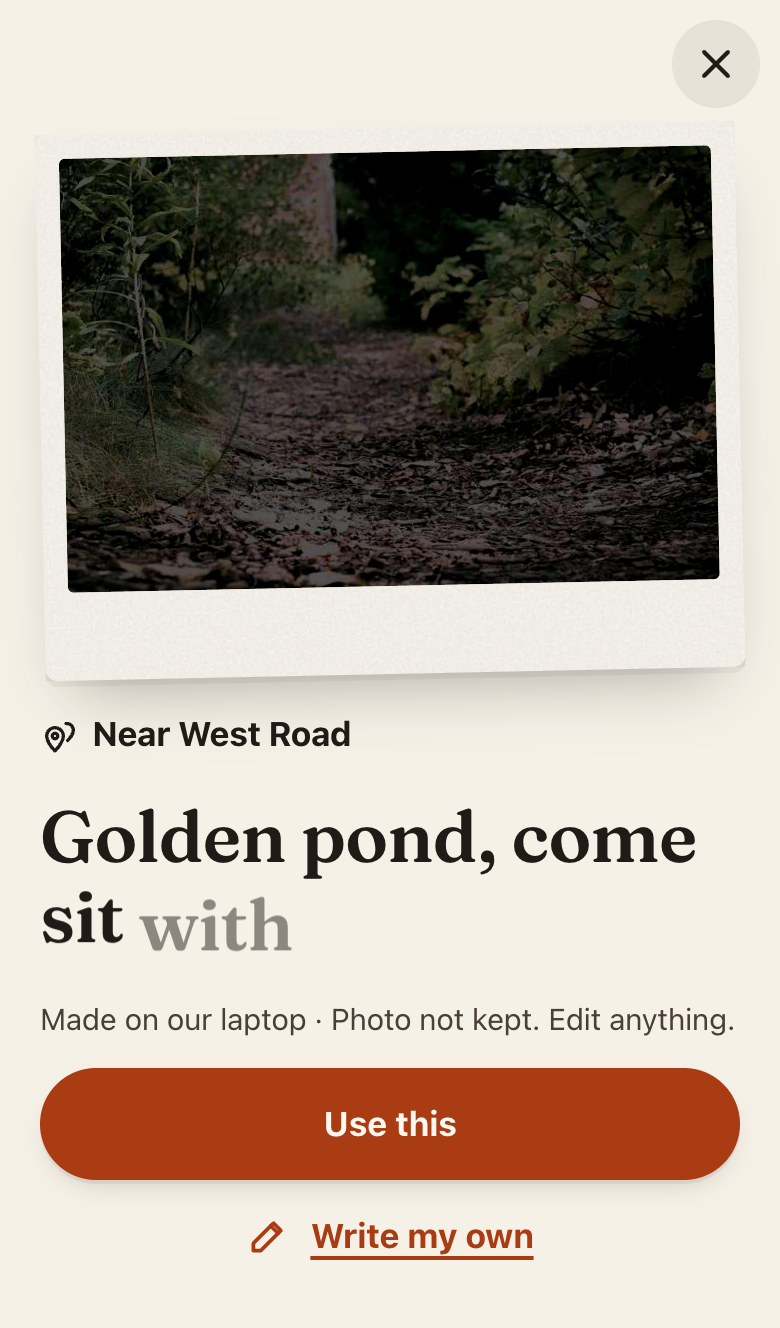
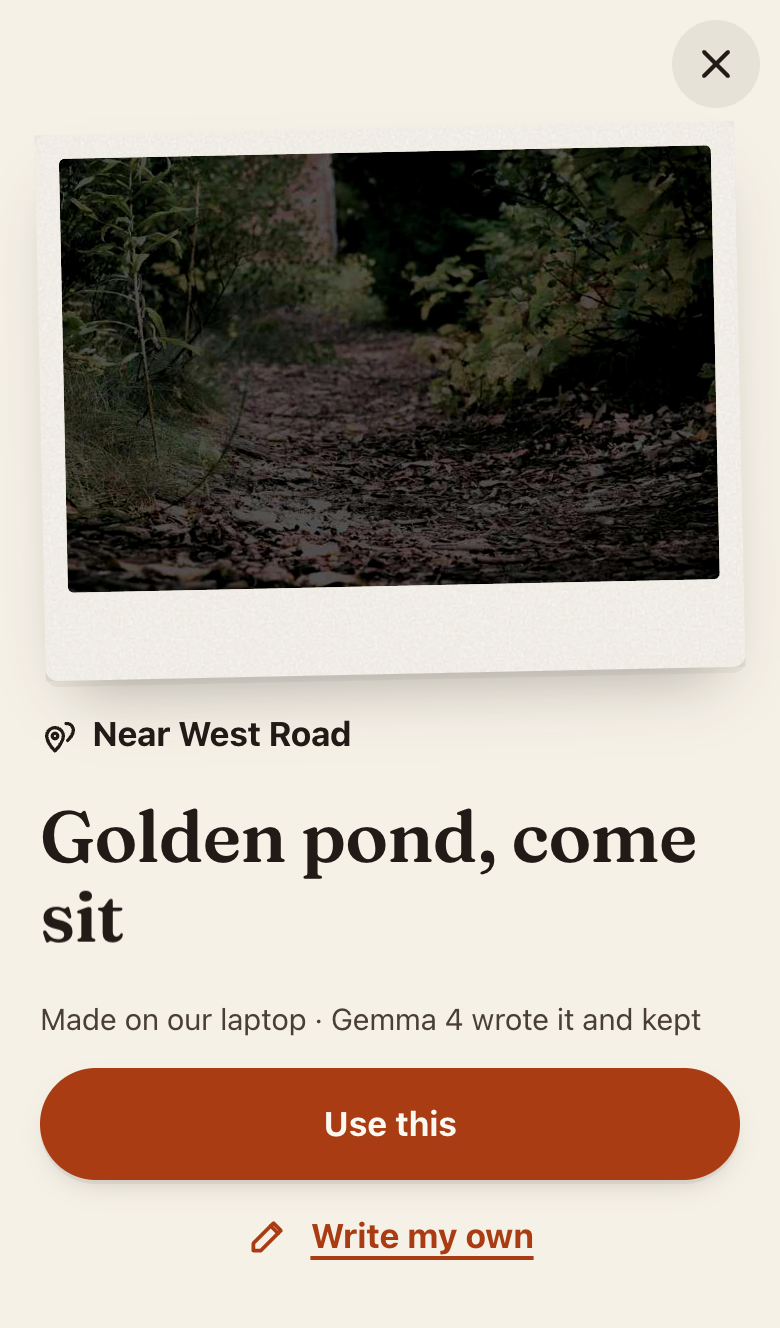
Round 6 leftovers: every control visible at 375x667 (new gate), coach line in the sheet, one location ask, Need N more, tour link in the footer, honest tier hint
Entire-Checkpoint: 01M4Q1F3B2832VZHCN2HQK2D8J

diff --git a/apps/web/src/lib/screens/H3Send.svelte b/apps/web/src/lib/screens/H3Send.svelte
@@ -29,6 +29,8 @@
     sample = false,
     onsend,
     onclose,
+      coach = "",
+      onlocate,
   }: {
     view?: "ready" | "editing" | "sending" | "error" | "offline";
     theme?: Theme;
@@ -48,6 +50,10 @@
     sample?: boolean;
     onsend?: () => void;
     onclose?: () => void;
+      /** The demo's coach line, in the sheet so it never covers the photo (fresh-eyes round 6). */
+    coach?: string;
+      /** Fresh-eyes round 6: the one place we ask for location, next to the place it fills. */
+    onlocate?: () => void;
   } = $props();
   let editing = $state(false);
   const showEdit = $derived(editing || view === "editing");
@@ -61,14 +67,18 @@
     {#if photo}<button class="pf" type="button" onclick={zoom}><img src={photo} alt={scene || t("invite.photoFallback")} onload={lit} /></button>{/if}
     <p class="t-invite words">{words}</p>
   {/snippet}
-  <Tip id="send" text="tip.send" />
+  <!-- First send on a short phone: the name field takes the tip's room; the tip shows next time. -->
+  {#if coach}<p class="coachline" role="status">{coach}</p>{/if}
+  <div class="tipwrap" class:first={askName}><Tip id="send" text="tip.send" /></div>
+  <!-- The size first (fresh-eyes round 6): on a small phone it must never sit below the fold. -->
+  <Choice label={t("send.quorumLabel")} bind:value={quorum} options={[{ value: "2", label: "2" }, { value: "3", label: "3" }, { value: "4", label: "4" }]} />
   {#if askName}
     <TextField label={t("join.nameLabel")} bind:value={hostName} placeholder={t("join.namePlaceholder")} hint={t("join.nameHint")} max={24} />
   {/if}
   {#if askSpot}
     <TextField label={t("perm.locationHost.label")} bind:value={typedSpot} placeholder={t("perm.locationHost.placeholder")} hint={typedSpot.trim() ? "" : t("send.whereHint")} max={80} />
+    {#if onlocate}<Button variant="text" icon="hotspots" onclick={onlocate}>{t("send.useLocation")}</Button>{/if}
   {/if}
-  <Choice label={t("send.quorumLabel")} bind:value={quorum} options={[{ value: "2", label: "2" }, { value: "3", label: "3" }, { value: "4", label: "4" }]} />
   <!-- One place field (fresh-eyes round 2): when you type where you are, that is the line;
        the Where you'll be row only shows when the map already named the spot. -->
   {#if askSpot && !showEdit}{:else if showEdit}
@@ -93,12 +103,21 @@
 </Screen>
 
 <style>
+  .tipwrap { display: contents; }
+  .coachline { margin: 0; padding: 8px 14px; border-radius: 14px; background: #fff; color: #111; font-weight: 700; }
   .words { margin: 0; font-size: calc(2.5rem * var(--text-scale)); line-height: 1.08; max-width: 14ch; }
   /* Photo-fit: the photo at its own shape, capped so the main button still fits on a 375 x 667
      phone. The words sit under it and the sheet takes the rest, so nothing covers the place. */
   .pf { display: block; margin: 0 auto; padding: 0; border: 0; background: none; border-radius: 16px; overflow: hidden; max-width: 100%; cursor: zoom-in; flex: none; }
-  .pf img { display: block; max-width: 100%; max-height: min(38dvh, 420px); width: auto; height: auto; }
-  .pf + .words { font-size: calc(2rem * var(--text-scale)); max-width: none; }
+  /* Send holds more controls than the invite (size, place, Edit): a smaller print, so every
+     control fits at 375 x 667 without scrolling (fresh-eyes round 6). Tap the photo to see it whole. */
+  .pf img { display: block; max-width: 100%; max-height: min(24dvh, 300px); width: auto; height: auto; }
+  .pf + .words { font-size: calc(1.5rem * var(--text-scale)); max-width: none; }
+  @media (max-height: 720px) {
+    .pf img { max-height: 15dvh; }
+    .tipwrap.first { display: none; }
+    .pf + .words { font-size: calc(1.25rem * var(--text-scale)); }
+  }
   :global(.staged > .hero:has(.pf)) { flex: none; justify-content: flex-start; gap: 10px; padding-top: 4px; }
   :global(.staged:has(> .hero .pf) > .sheet) { flex: 1; max-height: none; min-height: 0; }
   .hostline { display: flex; align-items: center; justify-content: space-between; gap: 8px; padding: 4px 0; }

diff --git a/apps/web/test/e2e/photo-fit.ts b/apps/web/test/e2e/photo-fit.ts
@@ -139,6 +139,34 @@ const onScreen = (page: Page, name: string | RegExp) =>
       return r.bottom <= innerHeight && r.top >= 0;
     });
 
+/** Round 6: every control in the sheet is on screen, not clipped by its scroll box, not covered. */
+const controlsHidden = (page: Page) =>
+  page.evaluate(() => {
+    const out: string[] = [];
+    const els = [
+      ...document.querySelectorAll(".sheet button, .sheet input, .sheet textarea, .sheet label.opt, .sheet a"),
+    ];
+    for (const el of els) {
+      const r = el.getBoundingClientRect();
+      if (!r.width || !r.height || getComputedStyle(el).visibility === "hidden") continue;
+      if (el.matches("label.opt input")) continue; // the label is the tap target; its radio is hidden
+      let clip = { top: 0, bottom: innerHeight };
+      for (let p = el.parentElement; p; p = p.parentElement) {
+        const o = getComputedStyle(p).overflowY;
+        if (o === "auto" || o === "scroll" || o === "hidden") {
+          const pr = p.getBoundingClientRect();
+          clip = { top: Math.max(clip.top, pr.top), bottom: Math.min(clip.bottom, pr.bottom) };
+        }
+      }
+      const cy = r.top + r.height / 2;
+      const hit = document.elementFromPoint(r.left + r.width / 2, cy);
+      const covered = !hit || !(el === hit || el.contains(hit) || hit.contains(el));
+      if (r.top < clip.top - 1 || r.bottom > clip.bottom + 1 || covered)
+        out.push((el.textContent?.trim() || el.getAttribute("aria-label") || el.tagName).slice(0, 30));
+    }
+    return out;
+  });
+
 async function measure(
   page: Page,
   screen: string,
@@ -157,6 +185,10 @@ async function measure(
   check(`${tag}: text and sheets cover at most 25% of the photo`, m.cover <= MAX_COVER, `${pct}%`);
   check(`${tag}: the whole photo is on screen (no crop)`, m.shown >= 0.97, `${shownPct}%`);
   check(`${tag}: the main button fits without scrolling`, await onScreen(page, main));
+  if (!BEFORE) {
+    const hidden = await controlsHidden(page);
+    check(`${tag}: every control is on screen and uncovered at first paint`, hidden.length === 0, hidden.join(", "));
+  }
   if (!BEFORE) {
     if (photo.dark) check(`${tag}: the dark photo is brightened for display`, /brightness/.test(m.filter), m.filter);
     else check(`${tag}: a bright photo has no filter`, !m.filter || m.filter === "none", m.filter);
@@ -286,6 +318,25 @@ try {
       }
       if (!BEFORE && vp.height === 664) await viewer(friend, `invite ${tag}`);
       await friendCtx.close();
+    }
+  // Round 6: the demo's Send step, with its coach line, on the same viewports and the same rules.
+  if (!BEFORE)
+    for (const vp of VIEWPORTS) {
+      const ctx = await browser.newContext({ viewport: vp, deviceScaleFactor: 2, hasTouch: true, isMobile: true });
+      const demo = await ctx.newPage();
+      await demo.goto(`${srv.url}/app/demo/`);
+      await photoReady(demo);
+      const m = await coverage(demo);
+      const tag = `demo send ${vp.width}x${vp.height}`;
+      rows.push(`${tag}: ${Math.round(m.cover * 1000) / 10}% covered`);
+      check(
+        `${tag}: the coach line and sheet cover at most 25% of the photo`,
+        m.cover <= MAX_COVER,
+        `${Math.round(m.cover * 1000) / 10}%`,
+      );
+      const hidden = await controlsHidden(demo);
+      check(`${tag}: every control is on screen and uncovered at first paint`, hidden.length === 0, hidden.join(", "));
+      await ctx.close();
     }
 } finally {
   await browser.close();

diff --git a/apps/web/src/lib/screens/HostPage.svelte b/apps/web/src/lib/screens/HostPage.svelte
@@ -247,9 +247,9 @@
 {:else if flow.screen === "camera"}
   <H1Camera view={camera} {stream} onshoot={shoot} onpick={pick} onallow={openCamera} onmenu={() => (menu = true)} onvoice={(d) => { stopCamera(); flow.useVoice(d); }} />
 {:else if flow.screen === "develop"}
-  <H2Develop view={flow.draft} photo={flow.photo} scene={flow.alt} spot={flow.spot?.name ?? ""} words={flow.words} tier={flow.tier} cloud={flow.cloudOptIn} onaskcloud={() => flow.askCloud()} chips={flow.chips} bind:own askLocation={flow.askLocation} bind:typedSpot onuse={(w) => flow.useWords(w)} onwrite={() => (flow.draft = "hub-unreachable")} onallowlocation={locate} onskiplocation={() => flow.typeSpot(typedSpot)} />
+  <H2Develop view={flow.draft} photo={flow.photo} scene={flow.alt} spot={flow.spot?.name ?? ""} words={flow.words} tier={flow.tier} cloud={flow.cloudOptIn} onaskcloud={() => flow.askCloud()} chips={flow.chips} bind:own askLocation={false} bind:typedSpot onuse={(w) => flow.useWords(w)} onwrite={() => (flow.draft = "hub-unreachable")} onallowlocation={locate} onskiplocation={() => flow.typeSpot(typedSpot)} />
 {:else if flow.screen === "send"}
-  <H3Send view={flow.sending ? "sending" : flow.error ? "error" : "ready"} photo={flow.photo} scene={flow.alt} words={flow.words} spot={flow.spot?.name ?? ""} bind:quorum={flow.quorum} bind:hostLine={flow.hostLine} bind:hostName={flow.hostName} askName={flow.askName} askSpot={!flow.spot?.name} bind:typedSpot access={flow.access} nature={flow.nature} error={flow.error} onsend={send} onclose={exit} />
+  <H3Send view={flow.sending ? "sending" : flow.error ? "error" : "ready"} photo={flow.photo} scene={flow.alt} words={flow.words} spot={flow.spot?.name ?? ""} bind:quorum={flow.quorum} bind:hostLine={flow.hostLine} bind:hostName={flow.hostName} askName={flow.askName} askSpot={!flow.spot?.name} bind:typedSpot onlocate={flow.spot ? undefined : locate} access={flow.access} nature={flow.nature} error={flow.error} onsend={send} onclose={exit} />
 {:else if flow.screen === "sent"}
   <H4Sent buzz={buzzMode({ push: pushOn, telegram: flow.postedToTelegram })} installed={installed()} kind={flow.view?.kind ?? kind} deadline={flow.deadlineAt ? clock(flow.deadlineAt, flow.tz) : ""} copied={flow.copied} linkOnly={flow.linkOnly} shareFirst={!flow.postedToTelegram} ondone={() => flow.pocket()} onshare={() => flow.share()} oncopy={() => flow.copyText()} />
 {:else if flow.screen === "kindling"}

diff --git a/apps/web/src/routes/app/demo/+page.svelte b/apps/web/src/routes/app/demo/+page.svelte
@@ -182,8 +182,7 @@
   </aside>
 
   {#if step === "send"}
-    <aside class="notes" aria-label={t("demo.intro", { host: me })}><p class="role" role="status">{t("demo.intro", { host: me })}</p></aside>
-    <H3Send bind:hostLine={typedLine} words={DEMO_WORDS} photo="/demo/pond.jpg" scene={DEMO_SCENE} spot={DEMO_SPOT} bind:quorum onsend={send} onclose={leave} />
+    <H3Send coach={t("demo.intro", { host: me })} bind:hostLine={typedLine} words={DEMO_WORDS} photo="/demo/pond.jpg" scene={DEMO_SCENE} spot={DEMO_SPOT} bind:quorum onsend={send} onclose={leave} />
   {:else if step === "kindling"}
     <div class="layer">
       <H5HostKindling photo="/demo/pond.jpg" scene={DEMO_SCENE} view={demo.have() > 1 ? "growing" : "zero"} have={demo.have()} quorum={demo.g?.quorum ?? 4} sentMin={sentAt ? Math.floor((demo.now - sentAt) / 60_000) : 0} hostLine={typedLine || t("demo.youWait", { spot: DEMO_SPOT })} onclose={leave} />

diff --git a/apps/web/src/lib/screens/H2Develop.svelte b/apps/web/src/lib/screens/H2Develop.svelte
@@ -65,7 +65,7 @@
     <p class="t-invite pending" role="status">{t("develop.writing")}</p>
   {:else if view === "drafted"}
     <TypeWords text={words} />
-    <p class="tier t-small t-muted">{dot(t(tier === "hub" ? "app.tier.hub" : tier === "cloud" ? "app.tier.cloud" : "app.tier.rules"), t("develop.editHint"))}</p>
+    <p class="tier t-small t-muted">{dot(t(tier === "hub" ? "app.tier.hub" : tier === "cloud" ? "app.tier.cloud" : "app.tier.rules"), t(tier === "hub" ? "develop.editHintHub" : "develop.editHint"))}</p>
     <FlameMeter have={1} quorum={2} note={t("develop.flameNote")} />
   {:else}
     <p class="t-muted t-small notice"><Icon name="info" size={20} />{view === "offline" ? t("develop.noSignal") : cloud ? t("develop.hubDownCloud") : t("develop.hubDown")}</p>

diff --git a/apps/web/src/routes/(site)/+page.svelte b/apps/web/src/routes/(site)/+page.svelte
@@ -38,7 +38,7 @@
       <a class="cta" href="/app/">{t("site.nav.open")}</a>
     </div>
     <SunLine />
-    <p class="fine">{t("site.hero.fine")} <a class="judge" href="/app/demo/">{t("site.hero.judge")}</a></p>
+    <p class="fine">{t("site.hero.fine")}</p>
   </div>
 </section>
 
@@ -114,5 +114,4 @@
   .live-fallback { border-radius: var(--r-lg); padding: 18px 20px; background: var(--c-dusk-900); color: var(--c-birch-100); display: flex; flex-direction: column; gap: 10px; }
   .live-fallback h2 { margin: 0; color: var(--c-gold-300); }
   .live-fallback a { color: var(--c-gold-300) !important; }
-  .judge { color: var(--c-birch-50) !important; font-weight: 700; text-underline-offset: 3px; white-space: nowrap; }
 </style>

diff --git a/apps/web/src/lib/components/CountRing.svelte b/apps/web/src/lib/components/CountRing.svelte
@@ -1,5 +1,5 @@
 <!-- The count, made visual (2026 direction): a ring of segments around the flame, one per
-     person needed, filled per yes; one short line ("1 more to light it"); "Nobody sees who" as
+     person needed, filled per yes; one short line ("Need 1 more"); "Nobody sees who" as
      a tiny hint. The flame grows with each yes like the app's Kindling.
      A yes arrives as a spark: it flies in from the screen's edge (a random side, never a name or
      a face), feeds the flame, then the flame grows a step and the count ticks (about 900 ms).

diff --git a/apps/web/src/routes/(site)/+layout.svelte b/apps/web/src/routes/(site)/+layout.svelte
@@ -69,6 +69,7 @@
       <img src="/brand/flare-mark-maple.svg" alt="" width="36" height="36" />
       <p>{t("site.foot.made")} {t("site.foot.osm")}</p>
     </div>
+    <p class="tour"><a href="/app/demo/">{t("site.hero.judge")}</a></p>
     <p class="build">{t("site.foot.build", { id: version.slice(0, 12) })}</p>
   </footer>
 </div>

diff --git a/docs/content/03-checks.md b/docs/content/03-checks.md
@@ -4,7 +4,7 @@ Generated by `design/prototype/scripts/copy-lint.mjs`. Run it from `design/proto
 
 ## Result
 
-- Strings checked: **1135** keys (11 with a singular form), in 23 kinds: title 165, aria 50, status 105, label 134, button 142, hint 82, message 128, heading 1, prose 167, separator 2, error 35, placeholder 7, share 7, option 17, fragment 34, spoken 4, export 1, push 12, bot 18, log 1, sms 4, og-title 9, og-desc 10.
+- Strings checked: **1137** keys (11 with a singular form), in 23 kinds: title 165, aria 50, status 105, label 134, button 143, hint 83, message 128, heading 1, prose 167, separator 2, error 35, placeholder 7, share 7, option 17, fragment 34, spoken 4, export 1, push 12, bot 18, log 1, sms 4, og-title 9, og-desc 10.
 - Problems: **0**.
 - Longest button: 3 words (limit 3). Longest UI string: 12 words (limit 12). Longest prose sentence: 23 words (limit 25).
 - Fixed requirement strings present word for word: 41 of 41.
@@ -32,7 +32,7 @@ Every string, raw template and filled sample, against each rule:
 
 ## Readability (Flesch-Kincaid grade)
 
-Formula: 0.39 × (words ÷ sentences) + 11.8 × (syllables ÷ words) − 15.59, in `scripts/readability.mjs`. Strings of 4 words or more are graded (701); the other 422 are buttons and labels of 1 to 3 words, where one long word decides the score and the grade means nothing. Scores below 0 count as 0 in the averages. Target: about grade 6.
+Formula: 0.39 × (words ÷ sentences) + 11.8 × (syllables ÷ words) − 15.59, in `scripts/readability.mjs`. Strings of 4 words or more are graded (701); the other 424 are buttons and labels of 1 to 3 words, where one long word decides the score and the grade means nothing. Scores below 0 count as 0 in the averages. Target: about grade 6.
 
 | Group | Strings | Average grade | Over 8 |
 | --- | --- | --- | --- |
@@ -153,7 +153,7 @@ Note for engineering: the "…" that BR-CH-2 asks for is not in the GSM-7 alphab
 These strings are final but live in channels or components outside this role's files. Each group says who wires it.
 
 - **Component (wire after merge): Screen.svelte** (2): `app.close`, `app.menu`
-- **Engineering or design to place** (563): `app.sending`, `app.loading`, `app.waking`, `home.golden`, `home.goldenH`, `home.goldenNow`, `home.goldenLeft`, `home.after`, `home.outside`, `home.dry`, `home.rain`, `home.green`, `home.light`, `home.live`, `home.again`, `home.plan`, `home.near`, `home.nearNote`, `demo.badge`, `demo.try`, `demo.skip`, `demo.asFriend`, `demo.said`, `demo.youWait`, `demo.you`, `demo.friendCoach`, `demo.friendBanner`, `demo.backToYou`, `demo.intro`, `demo.inIf`, `demo.back`, `demo.youHost`, `demo.youFriend`, `demo.coachLit`, `demo.coachFind`, `demo.next`, `demo.leave`, `demo.shrinkHint`, `demo.done`, `demo.again`, `demo.real`, `onb.1.title`, `onb.1.body`, `onb.2.title`, `onb.2.body`, `onb.3.title`, `onb.3.body`, `onb.next`, `onb.skip`, `onb.name`, `onb.nameHint`, `onb.go`, `onb.how`, `onb.link`, `onb.pasteLabel`, `onb.open`, `onb.badLink`, `onb.linkHelp`, `onb.cardAria`, `tip.home`, `tip.invite`, `tip.compass`, `tip.send`, `crew.title`, `crew.outNow`, `crew.week`, `crew.weekMin`, `crew.weekNone`, `crew.stats`, `crew.places`, `crew.placesEmpty`, `crew.manage`, `crew.light`, `crew.empty`, `crew.rename`, `crew.quorum`, `crew.saved`, `crew.never`, `crew.fresh`, `crew.freshTitle`, `crew.freshBody`, `crew.freshYes`, `crew.freshNo`, `crew.freshDone`, `menu.crew`, `menu.crewSub`, `app.tier.phone`, `app.tier.rules`, `app.dot`, `err.server`, `err.rateLimit`, `err.over`, `err.sealPhoto`, `err.storageFull`, `err.oldBrowser`, `err.inAppBrowser`, `perm.locationHost.title`, `perm.locationHost.body`, `perm.locationHost.allow`, `perm.locationHost.alt`, `perm.locationHost.denied`, `perm.locationHost.label`, `perm.locationHost.placeholder`, `perm.locationFriend.title`, `perm.locationFriend.body`, `perm.locationFriend.allow`, `perm.locationFriend.alt`, `perm.locationFriend.denied`, `perm.motion.title`, `perm.motion.body`, `perm.motion.allow`, `perm.motion.alt`, `perm.motion.denied`, `perm.notify.title`, `perm.notify.body`, `perm.notify.allow`, `perm.notify.alt`, `perm.notify.homeScreen`, `perm.notify.homeScreenHow`, `perm.notify.denied`, `perm.mic.title`, `perm.mic.body`, `perm.mic.body2`, `perm.mic.allow`, `perm.mic.alt`, `perm.mic.denied`, `develop.tooLong`, `send.hostLineEmpty`, `send.edit`, `tip.dismiss`, `send.whereHint`, `send.hostLineSeen`, `spot.nearStreet`, `sent.titleShare`, `sent.bodyOpen`, `sent.bodyTelegram`, `sent.homeTitle`, `sent.homeStep1`, `sent.homeStep2`, `sent.backLit`, `sent.titleLit`, `sent.titleWaiting`, `sent.telegram`, `sent.copyText`, `sent.copied`, `host.kindling.justSent`, `host.cancel.title`, `host.cancel.body`, `host.cancel.yes`, `host.cancel.no`, `host.textYes.open`, `host.textYes.label`, `host.textYes.hint`, `host.textYes.add`, `host.textYes.done`, `host.textYes.max`, `host.textYes.wrong`, `host.live.title`, `host.live.body`, `host.live.yes`, `host.live.no`, `join.full`, `invite.where`, `cond.listening`, `cond.didntCatchNow`, `cond.chipsAria`, `cond.chip.in`, `cond.chip.with`, `cond.chip.after`, `cond.chip.walk`, `cond.tooMany`, `readback.line`, `readback.missed`, `readback.rule.after`, `readback.rule.afterIn`, `readback.rule.maxWalk`, `readback.chip.after`, `readback.chip.maxWalk`, `readback.plain.title`, `readback.plain.yes`, `readback.plain.no`, `in.takenBack`, `notSuit.restroom`, `access.benchHere`, `access.noneNear`, `access.unknown`, `need.toLight`, `need.private`, `lit.together`, `lit.cantSheet.title`, `lit.cantSheet.body`, `lit.cantSheet.yes`, `lit.cantSheet.no`, `lit.cantDone`, `voice.meters`, `voice.km`, `voice.ahead`, `voice.close`, `voice.title`, `voice.sub`, `voice.try`, `atlas.title`, `atlas.note`, `atlas.fact`, `atlas.factOne`, `atlas.aria`, `desk.title`, `desk.body`, `desk.qrAlt`, `remember.chip`, `remember.title`, `remember.hostBody`, `remember.turnOn`, `remember.turnOff`, `remember.askBody`, `remember.agree`, `remember.decline`, `remember.off`, `remember.waiting`, `remember.notLit`, `remember.warn`, `remember.record`, `remember.recording`, `remember.stop`, `remember.working`, `remember.noteTitle`, `remember.noSummary`, `remember.failed`, `remember.saveSpark`, `remember.privacy`, `here.auto`, `here.undo`, `compass.start`, `compass.near`, `compass.apart`, `compass.figure8`, `ember.covered`, `spark.say`, `spark.stop`, `spark.listening`, `spark.working`, `spark.sayNote`, `spark.sayFail`, `voiceFlare.cta`, `voiceFlare.note`, `voiceFlare.working`, `voiceFlare.fail`, `outside.together`, `outside.away`, `outside.awayBody`, `outside.awayCta`, `plan.pickStart`, `plan.pickDeadline`, `plan.err.tooSoon`, `plan.err.tooFar`, `ladder.madeRules`, `ladder.template.step1`, `ladder.template.step2`, `ladder.template.step3`, `ladder.template.step4`, `ladder.sunsetOff`, `ladder.err.order`, `planLit.ember`, `fade.newSpot`, `menu.tg`, `menu.tgSub`, `forget.title`, `forget.body`, `forget.last`, `forget.yes`, `forget.no`, `forget.done`, `more.noGroup`, `forget.failed`, `needs.saved`, `check.copied`, `loop.stopReading`, `loop.noLocation`, `loop.noMap`, `loop.hint`, `loop.finding`, `loop.card.title`, `loop.turn.water`, `map.exportFile`, `map.photoGone`, `map.noteText`, `map.pick`, `map.starter`, `map.changeLabel`, `map.badValue`, `map.save`, `map.noLocation`, `map.copied`, `map.photoAsk`, `map.noPhoto`, `map.drafted`, `map.noDraft`, `host.lit.tell`, `site.nav.skip`, `site.nav.footAria`, `site.nav.open`, `site.hero.shotAlt`, `site.hero.judge`, `site.home.readBuilt`, `site.sun.soon`, `site.sun.later`, `site.sun.down`, `site.sun.hereSoon`, `site.sun.hereLater`, `site.sun.hereDown`, `site.sun.locate`, `site.sun.locNote`, `site.sun.locFail`, `site.story.title`, `site.story.lead`, `site.story.k`, `site.story.l`, `site.story.e`, `site.story.g`, `site.story.scene`, `site.story.count`, `site.story.ember`, `site.story.deleted`, `site.start.title`, `site.start.lead`, `site.start.s1.t`, `site.start.s1.b`, `site.start.s2.t`, `site.start.s2.b`, `site.start.s3.t`, `site.start.s3.b`, `site.start.sampleName`, `site.start.send`, `site.start.phoneAria`, `site.tg.title`, `site.tg.waitingAlt`, `site.tg.litAlt`, `site.tg.flip`, `site.tg.back`, `site.tg.note`, `site.crew.title`, `site.crew.lead`, `site.crew.sample`, `site.crew.name`, `site.crew.p1`, `site.crew.p2`, `site.crew.p3`, `site.crew.p4`, `site.crew.sparks`, `site.crew.spark1`, `site.crew.spark2`, `site.crew.atlasNote`, `site.crew.manageB`, `site.spot.title`, `site.spot.lead`, `site.spot.rail`, `site.spot.hear`, `site.spot.stop`, `site.spot.voice`, `site.live.title`, `site.live.on`, `site.live.off`, `site.live.checking`, `site.live.down`, `site.live.audit`, `site.live.auditMin`, `site.live.since`, `site.live.sent`, `site.live.lit`, `site.live.embers`, `site.live.yeses`, `site.live.crews`, `site.live.deleted`, `site.live.build`, `site.live.more`, `site.live.note`, `site.try.title`, `site.try.lead`, `site.try.pick`, `site.try.again`, `site.try.rules`, `site.try.working`, `site.try.hub`, `site.try.cloudDone`, `site.try.off`, `site.try.typeLabel`, `site.try.cloud`, `site.try.cloudNote`, `site.try.busy`, `site.try.big`, `site.try.fail`, `site.try.altLabel`, `site.try.photo`, `site.hood.title`, `site.hood.lead`, `site.hood.aria`, `site.hood.n.phone`, `site.hood.n.server`, `site.hood.n.relay`, `site.hood.n.hub`, `site.hood.n.cloud`, `site.hood.n.sweep`, `site.hood.code`, `site.hood.relay`, `site.hood.gemma`, `site.hood.google`, `site.hood.do`, `site.hood.mastra`, `site.hood.tinker`, `site.hood.sentry`, `site.hood.eleven`, `site.hood.telegram`, `site.hood.entire`, `site.hood.sweep`, `site.why.title`, `site.why.lead`, `site.why.social.t`, `site.why.social.share`, `site.why.social.min`, `site.why.social.src`, `site.why.social.note`, `site.why.social.cap`, `site.why.pct`, `site.why.min`, `site.why.col.year`, `site.why.friends.t`, `site.why.friends.kicker`, `site.why.friends.line`, `site.why.alone.line`, `site.why.pandemic`, `site.why.atus.src`, `site.why.friends.cap`, `site.why.col.friends`, `site.why.col.alone`, `site.why.indoor.t`, `site.why.indoor.bld`, `site.why.indoor.car`, `site.why.indoor.rest`, `site.why.indoor.src`, `site.why.indoor.cap`, `site.why.col.place`, `site.why.col.share`, `site.why.lonely.t`, `site.why.lonely.deaths`, `site.why.lonely.src`, `site.why.lonely.aria`, `site.why.nature.t`, `site.why.nature.b`, `site.why.nature.src`, `site.why.nature.aria`, `site.why.flares`, `site.why.end`, `site.walk.title`, `site.walk.lead`, `site.walk.send.t`, `site.walk.send.b`, `site.walk.friend.t`, `site.walk.friend.b`, `site.walk.count.t`, `site.walk.count.b`, `site.walk.lit.t`, `site.walk.lit.b`, `site.walk.find.t`, `site.walk.find.b`, `site.walk.after.t`, `site.walk.after.b`, `site.walk.try`, `site.walk.alt`, `site.feat.title`, `site.feat.try`, `site.feat.count.t`, `site.feat.count.b`, `site.feat.shrink.t`, `site.feat.shrink.b`, `site.feat.plan.t`, `site.feat.plan.b`, `site.feat.compass.t`, `site.feat.compass.b`, `site.feat.friend.t`, `site.feat.friend.b`, `site.feat.loop.t`, `site.feat.loop.b`, `site.feat.crew.t`, `site.feat.crew.b`, `site.feat.spark.t`, `site.feat.spark.b`, `site.feat.telegram.t`, `site.feat.telegram.b`, `site.feat.gone.t`, `site.feat.gone.b`, `site.feat.alt`, `site.built.title`, `site.built.gemma`, `site.built.google`, `site.built.do`, `site.built.eleven`, `site.built.tinker`, `site.built.entire`, `site.built.sentry`, `site.built.mastra`, `site.built.osm`, `site.built.render`, `site.built.sveltekit`, `site.home.readHow`, `site.home.readPrivacy`, `site.home.readAccess`, `site.home.readRun`, `site.how.gemma`, `site.privacy.audit.live`, `site.privacy.audit.pass`, `site.privacy.audit.fail`, `site.privacy.audit.down`, `site.privacy.audit.colStore`, `site.privacy.audit.colLeft`, `site.privacy.audit.colTotal`, `site.privacy.audit.caption`, `develop.hubDownCloud`, `site.run.levels.title`, `site.run.level1`, `site.run.level2`, `site.run.level3`, `site.run.needs`, `site.run.s1`, `site.run.s2`, `site.run.s3`, `site.run.db`, `site.run.license`, `site.foot.build`, `app.soundOff`, `app.soundOn`, `app.updateReady`, `app.updateReload`, `app.outboxDropped`, `install.title`, `install.body`, `install.cta`, `install.later`, `install.done`, `tg.title`, `tg.what`, `tg.sees`, `tg.add`, `tg.steps`, `tg.connected`, `tg.notYet`, `tg.photos`, `tg.photosNote`, `tg.photosOffNote`, `tg.on`, `tg.off`, `tg.saved`, `tg.unavailable`, `site.privacy.l.sentry`, `site.privacy.l.cloud`, `site.privacy.l.voice`, `site.privacy.l.voiceFlare`, `site.privacy.l.remember`, `site.privacy.l.launch`, `ai.remember`, `site.privacy.l.sleep`, `motion.outsideH`, `crew.sparkOpen`, `crew.sceneAria`
+- **Engineering or design to place** (565): `app.sending`, `app.loading`, `app.waking`, `home.golden`, `home.goldenH`, `home.goldenNow`, `home.goldenLeft`, `home.after`, `home.outside`, `home.dry`, `home.rain`, `home.green`, `home.light`, `home.live`, `home.again`, `home.plan`, `home.near`, `home.nearNote`, `demo.badge`, `demo.try`, `demo.skip`, `demo.asFriend`, `demo.said`, `demo.youWait`, `demo.you`, `demo.friendCoach`, `demo.friendBanner`, `demo.backToYou`, `demo.intro`, `demo.inIf`, `demo.back`, `demo.youHost`, `demo.youFriend`, `demo.coachLit`, `demo.coachFind`, `demo.next`, `demo.leave`, `demo.shrinkHint`, `demo.done`, `demo.again`, `demo.real`, `onb.1.title`, `onb.1.body`, `onb.2.title`, `onb.2.body`, `onb.3.title`, `onb.3.body`, `onb.next`, `onb.skip`, `onb.name`, `onb.nameHint`, `onb.go`, `onb.how`, `onb.link`, `onb.pasteLabel`, `onb.open`, `onb.badLink`, `onb.linkHelp`, `onb.cardAria`, `tip.home`, `tip.invite`, `tip.compass`, `tip.send`, `crew.title`, `crew.outNow`, `crew.week`, `crew.weekMin`, `crew.weekNone`, `crew.stats`, `crew.places`, `crew.placesEmpty`, `crew.manage`, `crew.light`, `crew.empty`, `crew.rename`, `crew.quorum`, `crew.saved`, `crew.never`, `crew.fresh`, `crew.freshTitle`, `crew.freshBody`, `crew.freshYes`, `crew.freshNo`, `crew.freshDone`, `menu.crew`, `menu.crewSub`, `app.tier.phone`, `app.tier.rules`, `app.dot`, `err.server`, `err.rateLimit`, `err.over`, `err.sealPhoto`, `err.storageFull`, `err.oldBrowser`, `err.inAppBrowser`, `perm.locationHost.title`, `perm.locationHost.body`, `perm.locationHost.allow`, `perm.locationHost.alt`, `perm.locationHost.denied`, `perm.locationHost.label`, `perm.locationHost.placeholder`, `perm.locationFriend.title`, `perm.locationFriend.body`, `perm.locationFriend.allow`, `perm.locationFriend.alt`, `perm.locationFriend.denied`, `perm.motion.title`, `perm.motion.body`, `perm.motion.allow`, `perm.motion.alt`, `perm.motion.denied`, `perm.notify.title`, `perm.notify.body`, `perm.notify.allow`, `perm.notify.alt`, `perm.notify.homeScreen`, `perm.notify.homeScreenHow`, `perm.notify.denied`, `perm.mic.title`, `perm.mic.body`, `perm.mic.body2`, `perm.mic.allow`, `perm.mic.alt`, `perm.mic.denied`, `develop.editHintHub`, `develop.tooLong`, `send.hostLineEmpty`, `send.edit`, `tip.dismiss`, `send.useLocation`, `send.whereHint`, `send.hostLineSeen`, `spot.nearStreet`, `sent.titleShare`, `sent.bodyOpen`, `sent.bodyTelegram`, `sent.homeTitle`, `sent.homeStep1`, `sent.homeStep2`, `sent.backLit`, `sent.titleLit`, `sent.titleWaiting`, `sent.telegram`, `sent.copyText`, `sent.copied`, `host.kindling.justSent`, `host.cancel.title`, `host.cancel.body`, `host.cancel.yes`, `host.cancel.no`, `host.textYes.open`, `host.textYes.label`, `host.textYes.hint`, `host.textYes.add`, `host.textYes.done`, `host.textYes.max`, `host.textYes.wrong`, `host.live.title`, `host.live.body`, `host.live.yes`, `host.live.no`, `join.full`, `invite.where`, `cond.listening`, `cond.didntCatchNow`, `cond.chipsAria`, `cond.chip.in`, `cond.chip.with`, `cond.chip.after`, `cond.chip.walk`, `cond.tooMany`, `readback.line`, `readback.missed`, `readback.rule.after`, `readback.rule.afterIn`, `readback.rule.maxWalk`, `readback.chip.after`, `readback.chip.maxWalk`, `readback.plain.title`, `readback.plain.yes`, `readback.plain.no`, `in.takenBack`, `notSuit.restroom`, `access.benchHere`, `access.noneNear`, `access.unknown`, `need.toLight`, `need.private`, `lit.together`, `lit.cantSheet.title`, `lit.cantSheet.body`, `lit.cantSheet.yes`, `lit.cantSheet.no`, `lit.cantDone`, `voice.meters`, `voice.km`, `voice.ahead`, `voice.close`, `voice.title`, `voice.sub`, `voice.try`, `atlas.title`, `atlas.note`, `atlas.fact`, `atlas.factOne`, `atlas.aria`, `desk.title`, `desk.body`, `desk.qrAlt`, `remember.chip`, `remember.title`, `remember.hostBody`, `remember.turnOn`, `remember.turnOff`, `remember.askBody`, `remember.agree`, `remember.decline`, `remember.off`, `remember.waiting`, `remember.notLit`, `remember.warn`, `remember.record`, `remember.recording`, `remember.stop`, `remember.working`, `remember.noteTitle`, `remember.noSummary`, `remember.failed`, `remember.saveSpark`, `remember.privacy`, `here.auto`, `here.undo`, `compass.start`, `compass.near`, `compass.apart`, `compass.figure8`, `ember.covered`, `spark.say`, `spark.stop`, `spark.listening`, `spark.working`, `spark.sayNote`, `spark.sayFail`, `voiceFlare.cta`, `voiceFlare.note`, `voiceFlare.working`, `voiceFlare.fail`, `outside.together`, `outside.away`, `outside.awayBody`, `outside.awayCta`, `plan.pickStart`, `plan.pickDeadline`, `plan.err.tooSoon`, `plan.err.tooFar`, `ladder.madeRules`, `ladder.template.step1`, `ladder.template.step2`, `ladder.template.step3`, `ladder.template.step4`, `ladder.sunsetOff`, `ladder.err.order`, `planLit.ember`, `fade.newSpot`, `menu.tg`, `menu.tgSub`, `forget.title`, `forget.body`, `forget.last`, `forget.yes`, `forget.no`, `forget.done`, `more.noGroup`, `forget.failed`, `needs.saved`, `check.copied`, `loop.stopReading`, `loop.noLocation`, `loop.noMap`, `loop.hint`, `loop.finding`, `loop.card.title`, `loop.turn.water`, `map.exportFile`, `map.photoGone`, `map.noteText`, `map.pick`, `map.starter`, `map.changeLabel`, `map.badValue`, `map.save`, `map.noLocation`, `map.copied`, `map.photoAsk`, `map.noPhoto`, `map.drafted`, `map.noDraft`, `host.lit.tell`, `site.nav.skip`, `site.nav.footAria`, `site.nav.open`, `site.hero.shotAlt`, `site.hero.judge`, `site.home.readBuilt`, `site.sun.soon`, `site.sun.later`, `site.sun.down`, `site.sun.hereSoon`, `site.sun.hereLater`, `site.sun.hereDown`, `site.sun.locate`, `site.sun.locNote`, `site.sun.locFail`, `site.story.title`, `site.story.lead`, `site.story.k`, `site.story.l`, `site.story.e`, `site.story.g`, `site.story.scene`, `site.story.count`, `site.story.ember`, `site.story.deleted`, `site.start.title`, `site.start.lead`, `site.start.s1.t`, `site.start.s1.b`, `site.start.s2.t`, `site.start.s2.b`, `site.start.s3.t`, `site.start.s3.b`, `site.start.sampleName`, `site.start.send`, `site.start.phoneAria`, `site.tg.title`, `site.tg.waitingAlt`, `site.tg.litAlt`, `site.tg.flip`, `site.tg.back`, `site.tg.note`, `site.crew.title`, `site.crew.lead`, `site.crew.sample`, `site.crew.name`, `site.crew.p1`, `site.crew.p2`, `site.crew.p3`, `site.crew.p4`, `site.crew.sparks`, `site.crew.spark1`, `site.crew.spark2`, `site.crew.atlasNote`, `site.crew.manageB`, `site.spot.title`, `site.spot.lead`, `site.spot.rail`, `site.spot.hear`, `site.spot.stop`, `site.spot.voice`, `site.live.title`, `site.live.on`, `site.live.off`, `site.live.checking`, `site.live.down`, `site.live.audit`, `site.live.auditMin`, `site.live.since`, `site.live.sent`, `site.live.lit`, `site.live.embers`, `site.live.yeses`, `site.live.crews`, `site.live.deleted`, `site.live.build`, `site.live.more`, `site.live.note`, `site.try.title`, `site.try.lead`, `site.try.pick`, `site.try.again`, `site.try.rules`, `site.try.working`, `site.try.hub`, `site.try.cloudDone`, `site.try.off`, `site.try.typeLabel`, `site.try.cloud`, `site.try.cloudNote`, `site.try.busy`, `site.try.big`, `site.try.fail`, `site.try.altLabel`, `site.try.photo`, `site.hood.title`, `site.hood.lead`, `site.hood.aria`, `site.hood.n.phone`, `site.hood.n.server`, `site.hood.n.relay`, `site.hood.n.hub`, `site.hood.n.cloud`, `site.hood.n.sweep`, `site.hood.code`, `site.hood.relay`, `site.hood.gemma`, `site.hood.google`, `site.hood.do`, `site.hood.mastra`, `site.hood.tinker`, `site.hood.sentry`, `site.hood.eleven`, `site.hood.telegram`, `site.hood.entire`, `site.hood.sweep`, `site.why.title`, `site.why.lead`, `site.why.social.t`, `site.why.social.share`, `site.why.social.min`, `site.why.social.src`, `site.why.social.note`, `site.why.social.cap`, `site.why.pct`, `site.why.min`, `site.why.col.year`, `site.why.friends.t`, `site.why.friends.kicker`, `site.why.friends.line`, `site.why.alone.line`, `site.why.pandemic`, `site.why.atus.src`, `site.why.friends.cap`, `site.why.col.friends`, `site.why.col.alone`, `site.why.indoor.t`, `site.why.indoor.bld`, `site.why.indoor.car`, `site.why.indoor.rest`, `site.why.indoor.src`, `site.why.indoor.cap`, `site.why.col.place`, `site.why.col.share`, `site.why.lonely.t`, `site.why.lonely.deaths`, `site.why.lonely.src`, `site.why.lonely.aria`, `site.why.nature.t`, `site.why.nature.b`, `site.why.nature.src`, `site.why.nature.aria`, `site.why.flares`, `site.why.end`, `site.walk.title`, `site.walk.lead`, `site.walk.send.t`, `site.walk.send.b`, `site.walk.friend.t`, `site.walk.friend.b`, `site.walk.count.t`, `site.walk.count.b`, `site.walk.lit.t`, `site.walk.lit.b`, `site.walk.find.t`, `site.walk.find.b`, `site.walk.after.t`, `site.walk.after.b`, `site.walk.try`, `site.walk.alt`, `site.feat.title`, `site.feat.try`, `site.feat.count.t`, `site.feat.count.b`, `site.feat.shrink.t`, `site.feat.shrink.b`, `site.feat.plan.t`, `site.feat.plan.b`, `site.feat.compass.t`, `site.feat.compass.b`, `site.feat.friend.t`, `site.feat.friend.b`, `site.feat.loop.t`, `site.feat.loop.b`, `site.feat.crew.t`, `site.feat.crew.b`, `site.feat.spark.t`, `site.feat.spark.b`, `site.feat.telegram.t`, `site.feat.telegram.b`, `site.feat.gone.t`, `site.feat.gone.b`, `site.feat.alt`, `site.built.title`, `site.built.gemma`, `site.built.google`, `site.built.do`, `site.built.eleven`, `site.built.tinker`, `site.built.entire`, `site.built.sentry`, `site.built.mastra`, `site.built.osm`, `site.built.render`, `site.built.sveltekit`, `site.home.readHow`, `site.home.readPrivacy`, `site.home.readAccess`, `site.home.readRun`, `site.how.gemma`, `site.privacy.audit.live`, `site.privacy.audit.pass`, `site.privacy.audit.fail`, `site.privacy.audit.down`, `site.privacy.audit.colStore`, `site.privacy.audit.colLeft`, `site.privacy.audit.colTotal`, `site.privacy.audit.caption`, `develop.hubDownCloud`, `site.run.levels.title`, `site.run.level1`, `site.run.level2`, `site.run.level3`, `site.run.needs`, `site.run.s1`, `site.run.s2`, `site.run.s3`, `site.run.db`, `site.run.license`, `site.foot.build`, `app.soundOff`, `app.soundOn`, `app.updateReady`, `app.updateReload`, `app.outboxDropped`, `install.title`, `install.body`, `install.cta`, `install.later`, `install.done`, `tg.title`, `tg.what`, `tg.sees`, `tg.add`, `tg.steps`, `tg.connected`, `tg.notYet`, `tg.photos`, `tg.photosNote`, `tg.photosOffNote`, `tg.on`, `tg.off`, `tg.saved`, `tg.unavailable`, `site.privacy.l.sentry`, `site.privacy.l.cloud`, `site.privacy.l.voice`, `site.privacy.l.voiceFlare`, `site.privacy.l.remember`, `site.privacy.l.launch`, `ai.remember`, `site.privacy.l.sleep`, `motion.outsideH`, `crew.sparkOpen`, `crew.sceneAria`
 - **Component (wire after merge): apps/web/src/lib/ai** (6): `develop.empty`, `ladder.err.minutes`, `ladder.err.total`, `ladder.err.name`, `app.tier.cloud`, `ladder.madeCloud`
 - **Channel (engineering): share** (13): `share.flare.title`, `share.flare.text`, `share.plan.title`, `share.plan.text`, `share.card.title`, `share.card.text`, `share.note.title`, `share.lit.title`, `share.lit.text`, `share.copyLink`, `share.linkCopied`, `share.failed`, `share.copyFailed`
 - **Component (wire after merge): motion:PhotoPrint** (1): `invite.photoFallback`

diff --git a/docs/content/02-copy-deck.md b/docs/content/02-copy-deck.md
@@ -2,7 +2,7 @@
 
 Generated by `design/prototype/scripts/copy-lint.mjs` from `design/prototype/src/lib/copy/deck.json` (version 1.0, 2026-10-10). Do not edit this file by hand; edit the JSON and run the script.
 
-1135 keys. Text is the template; **Words** and **Grade** are measured on the template filled with the sample values in `meta.sample` (Fuego, Ford Woods Park, by the pond). **Source** is the requirement a fixed string comes from; those must not change without a change request.
+1137 keys. Text is the template; **Words** and **Grade** are measured on the template filled with the sample values in `meta.sample` (Fuego, Ford Woods Park, by the pond). **Source** is the requirement a fixed string comes from; those must not change without a change request.
 
 Variants in force: `privacy.coords` = B, `og.link` = safe. A = server holds spot coordinates until Gone (analyst decision 10, current requirements). B = OQ-1 adopted: coordinates only inside the sealed invite. B is in force: ADR-0009 adopted OQ-1. safe = preview uses only what the server can read (count, not the invite). full = BR-CH-4 as written (invite line in the preview); needs the server to hold the six words in plain text, which the architect must approve.
 
@@ -243,7 +243,8 @@ Variants in force: `privacy.coords` = B, `og.link` = safe. A = server holds spot
 | --- | --- | --- | --- | --- | --- | --- |
 | `develop.heading` | Your invite | title | 2 | 2.9 | H2 |  |
 | `develop.writing` | Writing a short invite… | status | 4 | 3.7 | H2 |  |
-| `develop.editHint` | Photo not kept. Edit anything. | hint | 5 | 6.6 | H2 |  |
+| `develop.editHint` | Edit anything. | hint | 2 | 14.7 | H2 |  |
+| `develop.editHintHub` | Gemma 4 wrote it and kept no copy. Edit anything. | hint | 10 | 4.1 | H2 tier note, hub tier only (fresh-eyes round 6: plain, confident, true) |  |
 | `develop.flameNote` | This is your flame. It grows as friends say yes. | message | 10 | -1.8 | H2 |  |
 | `develop.offline` | Offline. Write six words. It sends later. | status | 7 | 0.5 | H2 |  |
 | `develop.noSignal` | No signal, so no draft. | message | 5 | 0.5 | H2 |  |
@@ -269,6 +270,7 @@ Variants in force: `privacy.coords` = B, `og.link` = safe. A = server holds spot
 | `send.hostLineHint` | Friends see this when it's lit. | hint | 6 | -1.4 | H3 |  |
 | `send.hostLineEmpty` | Not set yet | label | 3 | -2.6 | H3 where-you'll-be row (fresh-eyes #12) |  |
 | `send.edit` | Edit | button | 1 | 8.4 | H3 where-you'll-be row (fresh-eyes #12) |  |
+| `send.useLocation` | Use my location | button | 3 | 5.2 | H3 typed place: the one location ask (fresh-eyes round 6) |  |
 | `send.whereHint` | Add where you are to send it. | hint | 7 | -1.1 | H3 typed place (fresh-eyes round 4) |  |
 | `send.hostLineSeen` | Friends will see | label | 3 | -2.6 | H3 read-only host line (fresh-eyes round 5: no third person on your own screen) |  |
 | `send.hostLineEdit` | Edit where you'll be | aria | 4 | 0.7 | H3 |  |
@@ -505,7 +507,7 @@ Variants in force: `privacy.coords` = B, `og.link` = safe. A = server holds spot
 | Key | Text | Kind | Words | Grade | Where | Source or status |
 | --- | --- | --- | --- | --- | --- | --- |
 | `need.more` | Need {n} more. | message | 3 | -2.6 | NeedCount FlameMeter bot | BR-Q-4 |
-| `need.toLight` | {n} more to light it (one: 1 more to light it) | label | 5 | -1.8 | I1 |  |
+| `need.toLight` | Need {n} more (one: Need 1 more) | label | 3 | -2.6 | I1 |  |
 | `need.private` | Nobody sees who. | hint | 3 | 5.2 | I1 |  |
 | `need.enough` | Enough. Lighting now. | status | 3 | 4.7 | NeedCount |  |
 | `need.lit` | It's lit. | status | 2 | -3.0 | NeedCount FlameMeter |  |
@@ -1080,7 +1082,7 @@ Variants in force: `privacy.coords` = B, `og.link` = safe. A = server holds spot
 | `site.hero.how` | See how | button | 2 | -3.0 | site W1 |  |
 | `site.hero.shotAlt` | A Flare invite: a pond photo, six words, one more needed. | aria | 11 | 3.7 | W1 |  |
 | `site.hero.fine` | Seconds of screen. An hour outside. | title | 6 | 1.3 | site W1 | brand promise line |
-| `site.hero.judge` | Judging? 60-second tour | label | 3 | 4.7 | site W1 hero fine print, links to /app/demo/ |  |
+| `site.hero.judge` | Take the 60-second tour | label | 4 | 0.7 | Site footer (fresh-eyes round 6: moved from the hero) |  |
 | `site.home.readBuilt` | How it's built | label | 3 | -2.6 | site home, link to /how/#hood |  |
 | `site.sun.soon` | Sunset near {city} in {min} min. Light a Flare. | message | 9 | 0.6 | site W1 hero, time zone city |  |
 | `site.sun.later` | Sunset near {city} at {time}. Light a Flare. | message | 9 | 0.5 | site W1 hero, time zone city |  |

diff --git a/docs/research/fresh-eyes-2026-10-11.md b/docs/research/fresh-eyes-2026-10-11.md
@@ -105,4 +105,12 @@ Fixed after it (before the 1 AM freeze):
 - **"10min only with you" lost "only with you" in the demo.** The demo passes the host's name the way a friend's phone does.
 - **"after 10" at 10:40 PM became 10 AM tomorrow.** A bare hour that already holds (up to 6 h back) now stays tonight: 10 PM. blind_40 is still 30/40.
 
-Left: the location is asked twice (the "Name your spot?" sheet, then Send asks for "where you are"); the bottom sheet hides the 2/3/4 buttons at 375×667; the demo coach card over the photo; "N more to light it" vs "Need N more"; "Judging? 60-second tour" reads odd to normal users; "Made on our laptop · Photo not kept" sounds hobby-grade.
+Then fixed, the founder's leftover list (23:10 ET):
+- **At 375×667 the sheet hid the 2/3/4 size buttons** (a real bug). Send now puts the size first, uses a smaller print on short screens, and on a first send hides the tip there. A new gate, "every control is on screen and uncovered at first paint", runs on invite, develop, send and the demo's Send at 390×664, 375×667 and 390×844. It failed before the fix (2, 3, 4, Edit) and passes now.
+- **The demo coach card covered the photo.** The coach line now sits inside the sheet; the gate measures 0% of the photo covered.
+- **The location was asked twice.** Develop no longer opens its own sheet. The one ask is on Send, a "Use my location" button next to the place it fills.
+- **"Need N more"** is now the wording everywhere, including the count ring.
+- **"Judging? 60-second tour"** moved to the footer as "Take the 60-second tour".
+- **"Made on our laptop · Photo not kept"**: "Made on our laptop" is a fixed requirement string (SRS-AI-4), so it stays. The hint beside it now reads "Gemma 4 wrote it and kept no copy. Edit anything." on the laptop tier only, because the cloud tier can't promise that.
+
+Earlier left list: the location is asked twice (the "Name your spot?" sheet, then Send asks for "where you are"); the bottom sheet hides the 2/3/4 buttons at 375×667; the demo coach card over the photo; "N more to light it" vs "Need N more"; "Judging? 60-second tour" reads odd to normal users; "Made on our laptop · Photo not kept" sounds hobby-grade.
